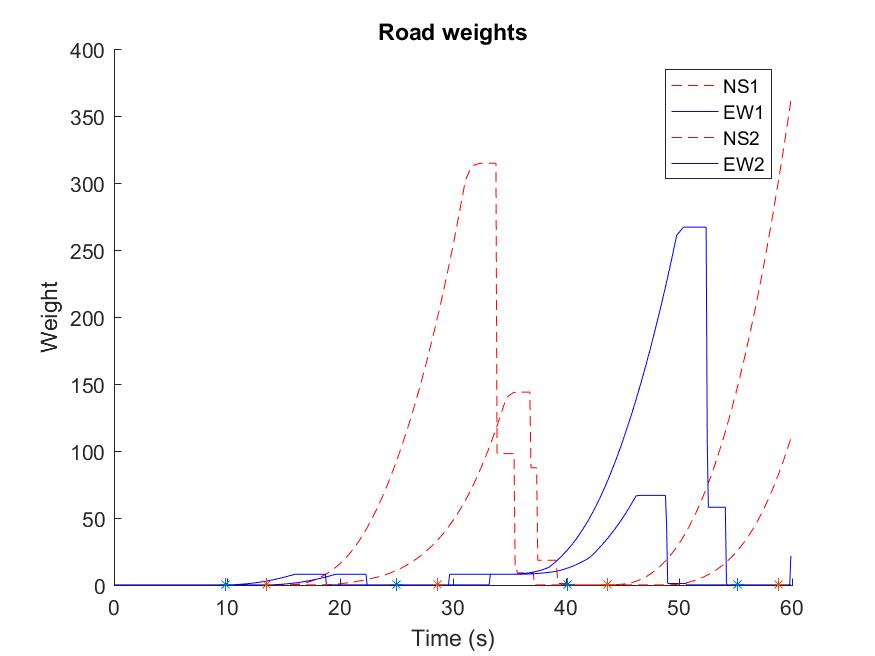
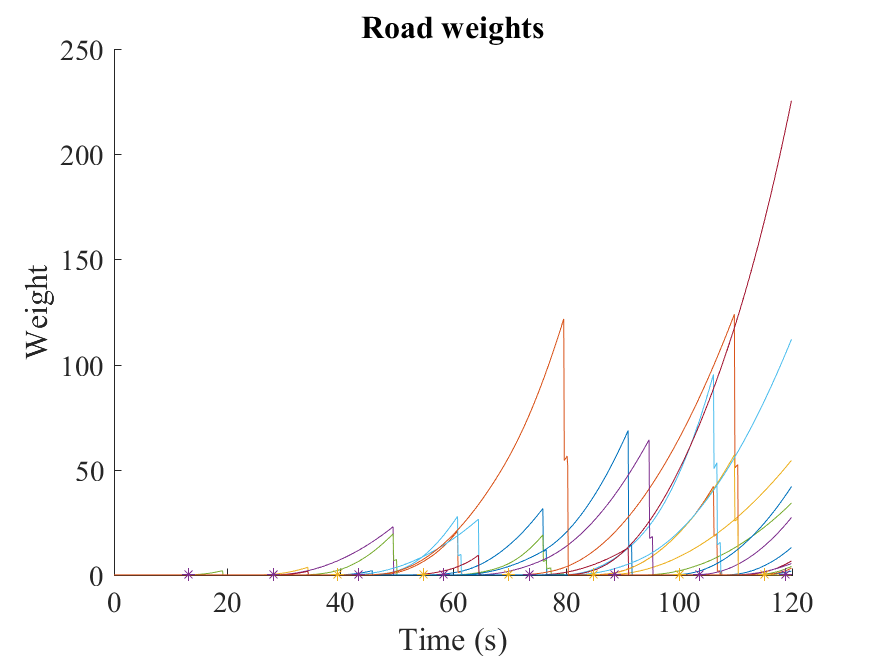
coordination term added

diff --git a/MainScript.m b/MainScript.m
@@ -4,9 +4,8 @@ clear; clc; close all
 % hold on;
 
 % Initialize parameters
-reshape(1,1,1)
 delta_t = .1;
-num_iter = 1200;
+num_iter = 3000;
 wait_thresh = 0.1; % number between 0 and 1, 0 means time is added once a vehicle is stopped, 1 means time is added after slowing from max
 policy = 'custom'; % the options are 'custom' or 'cycle'
 max_speed = 20; % speed limit of system
@@ -15,7 +14,7 @@ phase_length = 60; % time of whole intersection cycle
 min_time = 10; % minimum time spent in a phase
 min_veh = 7;
 switch_threshold = 1; % 0 means wait time must be greater to switch, 1 means double
-spawn_rate = 1; % average vehicles per second
+spawn_rate = .8; % average vehicles per second
 spawn_type = 'poisson'; % 'poisson'
 all_straight = false; % true if no turns exist
 num_int = 2; % number of intersections
@@ -92,7 +91,8 @@ for t = delta_t*(1:num_iter)
     
     % Calculates weights in each lane
     if ~isempty(fieldnames(vehicles))
-        [weights(:,w_ind,:), added_weights(:,w_ind,:)] = CalcWeights(vehicles, num_int, num_w, num_lanes, wait_thresh, packets, W);
+        [weights(:,w_ind,:), added_weights(:,w_ind,:)] = CalcWeights(vehicles, ...
+          num_int, num_w, num_lanes, wait_thresh, packets, t, yellow_time, min_time, W);
     end
     
     % Yellow light time needs to be function of max velocity! Not a
@@ -238,14 +238,14 @@ for t = delta_t*(1:num_iter)
         
         % if switching to enable flow toward another intersection, create packet
         if k == 1 && switch_time(k) == 0 && ismember(1, to_switch_to(k,:))
-            packets = [packets; k, min([min_veh,queue_lengths(k,1,3,w_ind-1)]), t + T]
+            packets = [packets; k, min([min_veh,queue_lengths(k,1,3,w_ind-1)]), t + T];
         elseif k == 1 && switch_time(k) == 0 && ismember(8, to_switch_to(k,:))
-            packets = [packets; k, min([min_veh,sum(queue_lengths(k,4,1:2,w_ind-1)/(num_lanes-1))]), t + T]
+            packets = [packets; k, min([min_veh,sum(queue_lengths(k,4,1:2,w_ind-1)/(num_lanes-1))]), t + T];
         end
         if k == 2 && switch_time(k) == 0 && ismember(4,to_switch_to(k,:))
-            packets = [packets; k, min([min_veh,sum(queue_lengths(k,2,1:2,w_ind-1)/(num_lanes-1))]), t + T]
+            packets = [packets; k, min([min_veh,sum(queue_lengths(k,2,1:2,w_ind-1)/(num_lanes-1))]), t + T];
         elseif k == 2 && switch_time(k) == 0 && ismember(5,to_switch_to(k,:))
-            packets = [packets; k, min([min_veh,queue_lengths(k,3,3,w_ind-1)]), t + T]
+            packets = [packets; k, min([min_veh,queue_lengths(k,3,3,w_ind-1)]), t + T];
         end
     end
     

diff --git a/CalcWeights.m b/CalcWeights.m
@@ -1,4 +1,4 @@
-function [new_weights, added_weights] = CalcWeights(vehicles, num_int, num_w, num_lanes, wait_thresh, packets, W)
+function [new_weights, added_weights] = CalcWeights(vehicles, num_int, num_w, num_lanes, wait_thresh, packets, t, yellow_time, g, W)
 
 new_weights = zeros(num_int, 1, num_w);
 added_weights = zeros(num_int, 1, num_w);
@@ -41,9 +41,22 @@ for v = 1:length(vehicles)
     end
 end
 
-% Calculates the coordination term B
-for p = 1:length(packets)
-    added_weights() = 
+% Calculates the coordination term B, applies to the right phases
+B = @(alpha,E,z,zeta,g) -alpha*E*max([0, min([z/zeta+1,1,(g-z)/zeta])]);
+for p = 1:size(packets,1)
+    alpha = 0;
+    z = packets(p,3) - t - yellow_time;
+    E = packets(p,2);
+    zeta = E*1.25;
+    old_int = packets(p,1);
+    if old_int == 1
+        new_int = 2;
+        phases_tmp = [7,8];
+    elseif old_int == 2
+        new_int = 1;
+        phases_tmp = [3,4];
+    end
+    added_weights(new_int,1,phases_tmp) = B(alpha,E,z,zeta,g);
 end
 
 end

diff --git a/RunDynamics.m b/RunDynamics.m
@@ -193,6 +193,10 @@ for v = 1:V
             % if v on road and ahead on road ahead
             elseif (vehicles(v).int == vehicles(vehicles(v).ahead).int && ...
               vehicles(v).road ~= vehicles(vehicles(v).ahead).road)
+                disp(vehicles(v))
+                disp(current_int)
+                disp(current_road)
+                disp(current_lane)
                 dist_ahead = ints(current_int).roads(current_road).length - vehicles(v).dist_in_lane + ...
                   turn_length(current_lane) + vehicles(vehicles(v).ahead).dist_in_lane;
             % if v and ahead in different intersections
